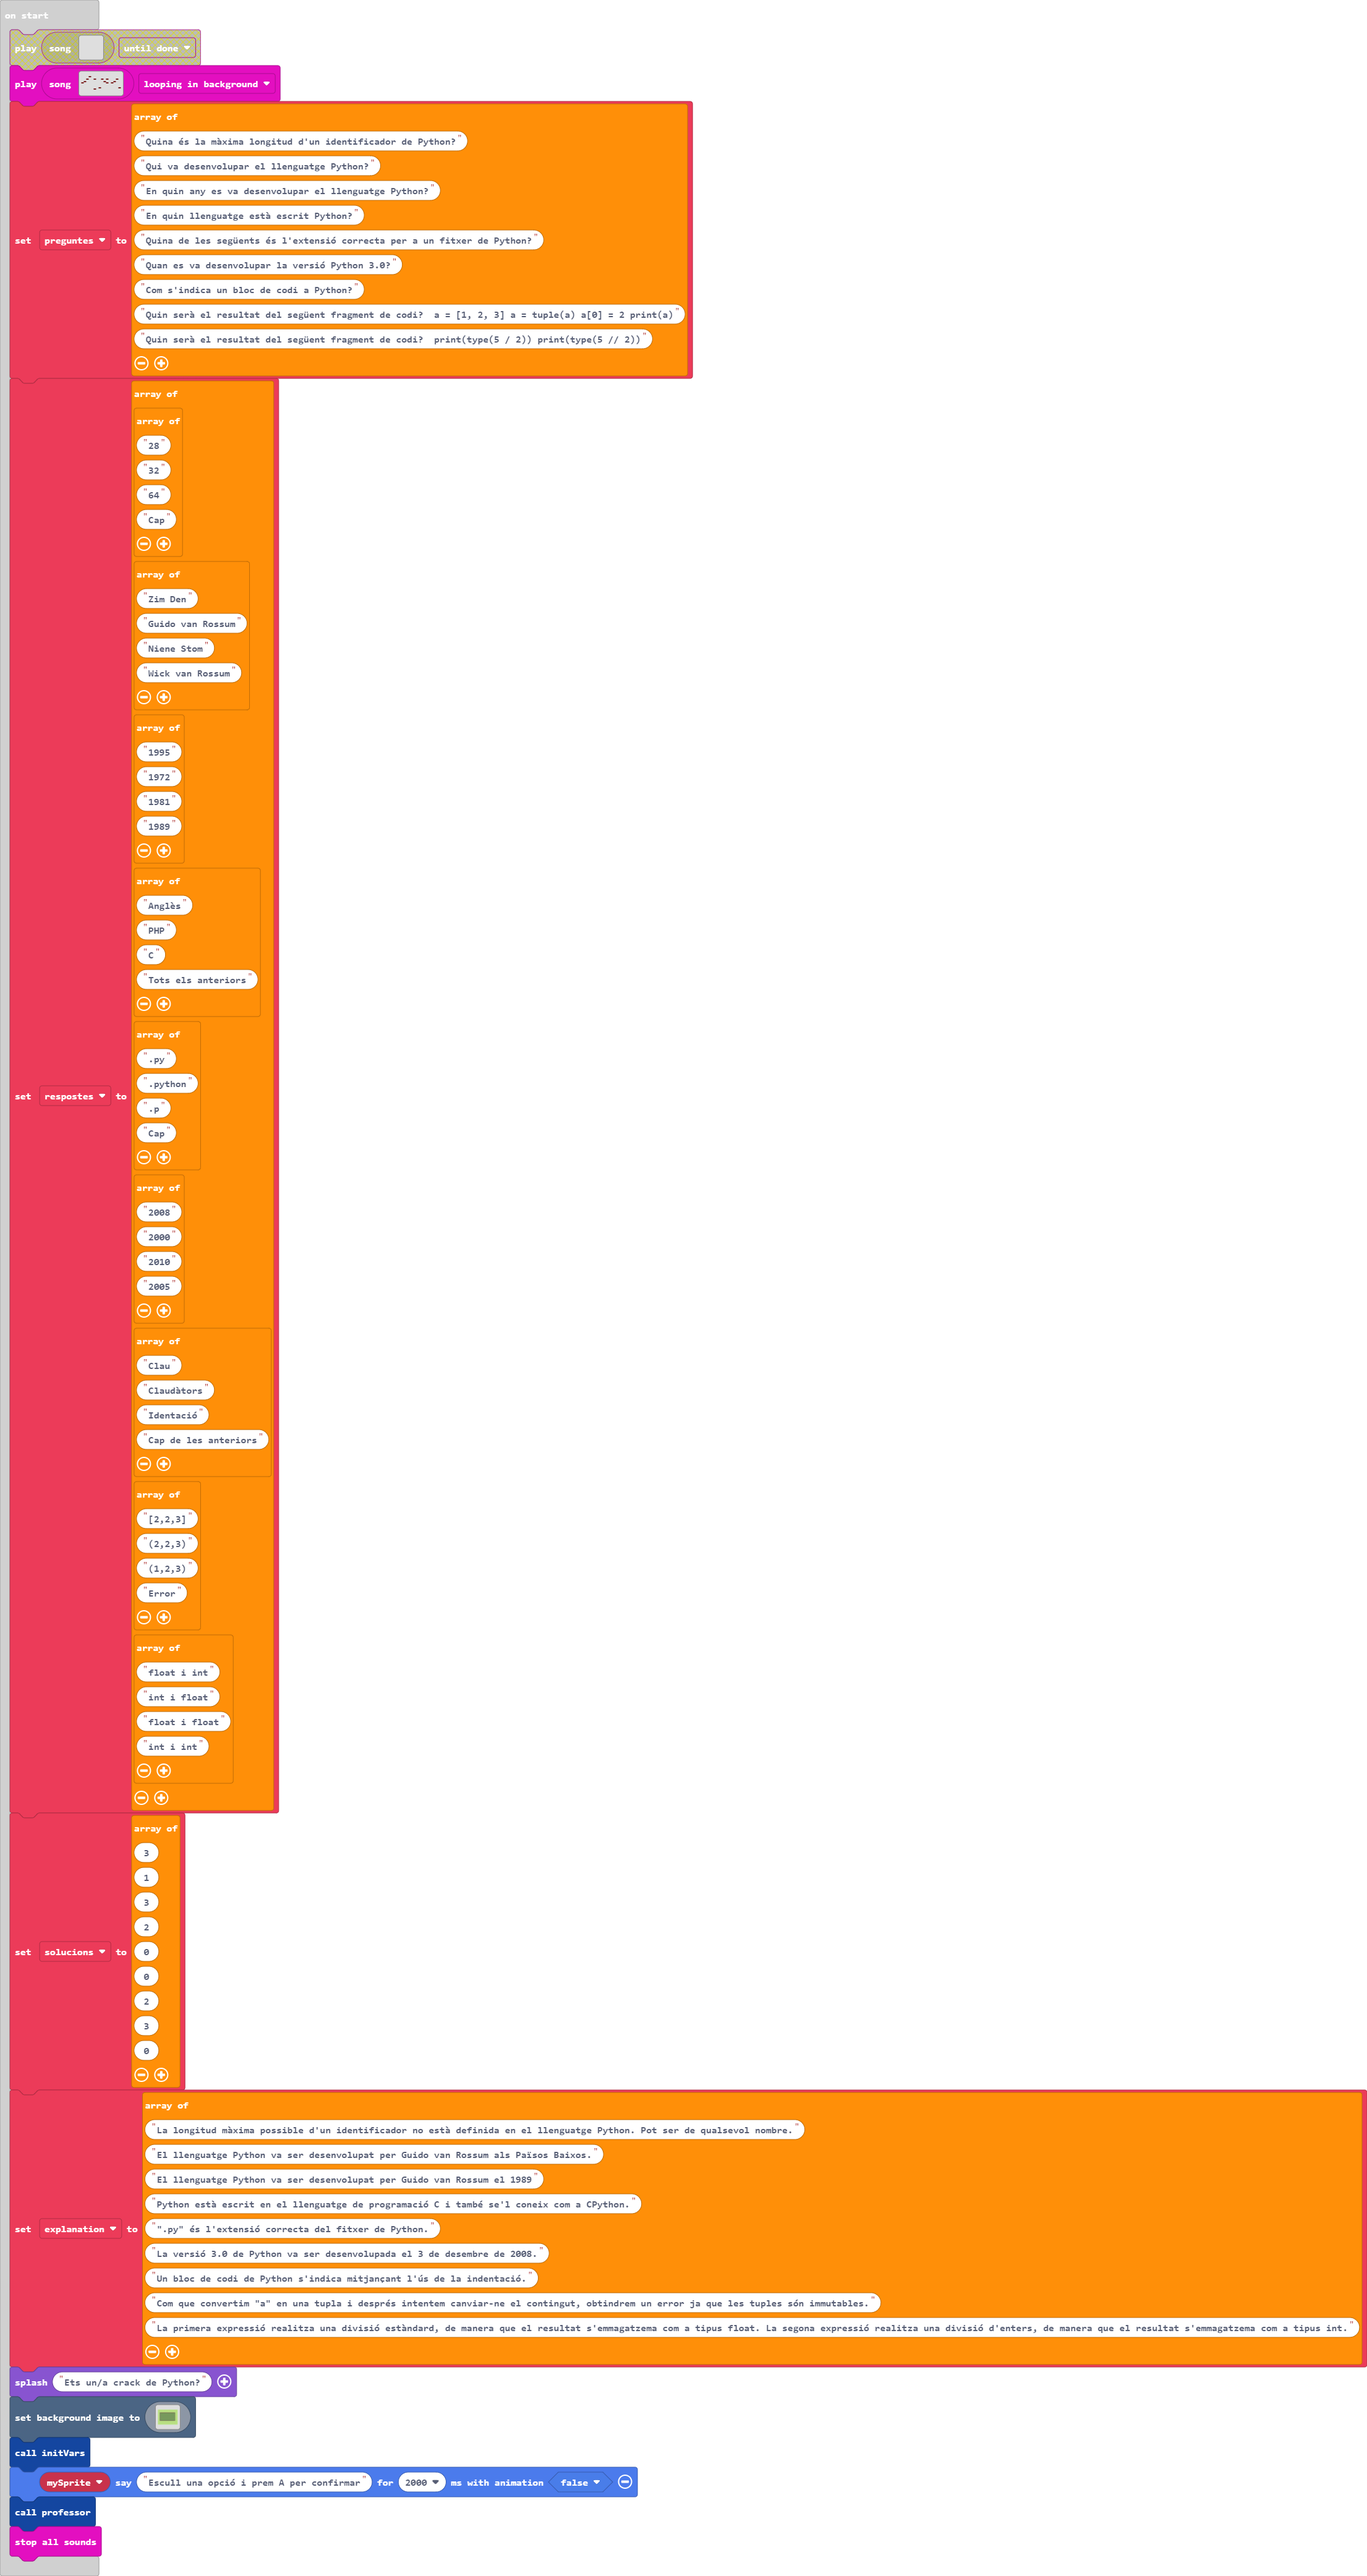
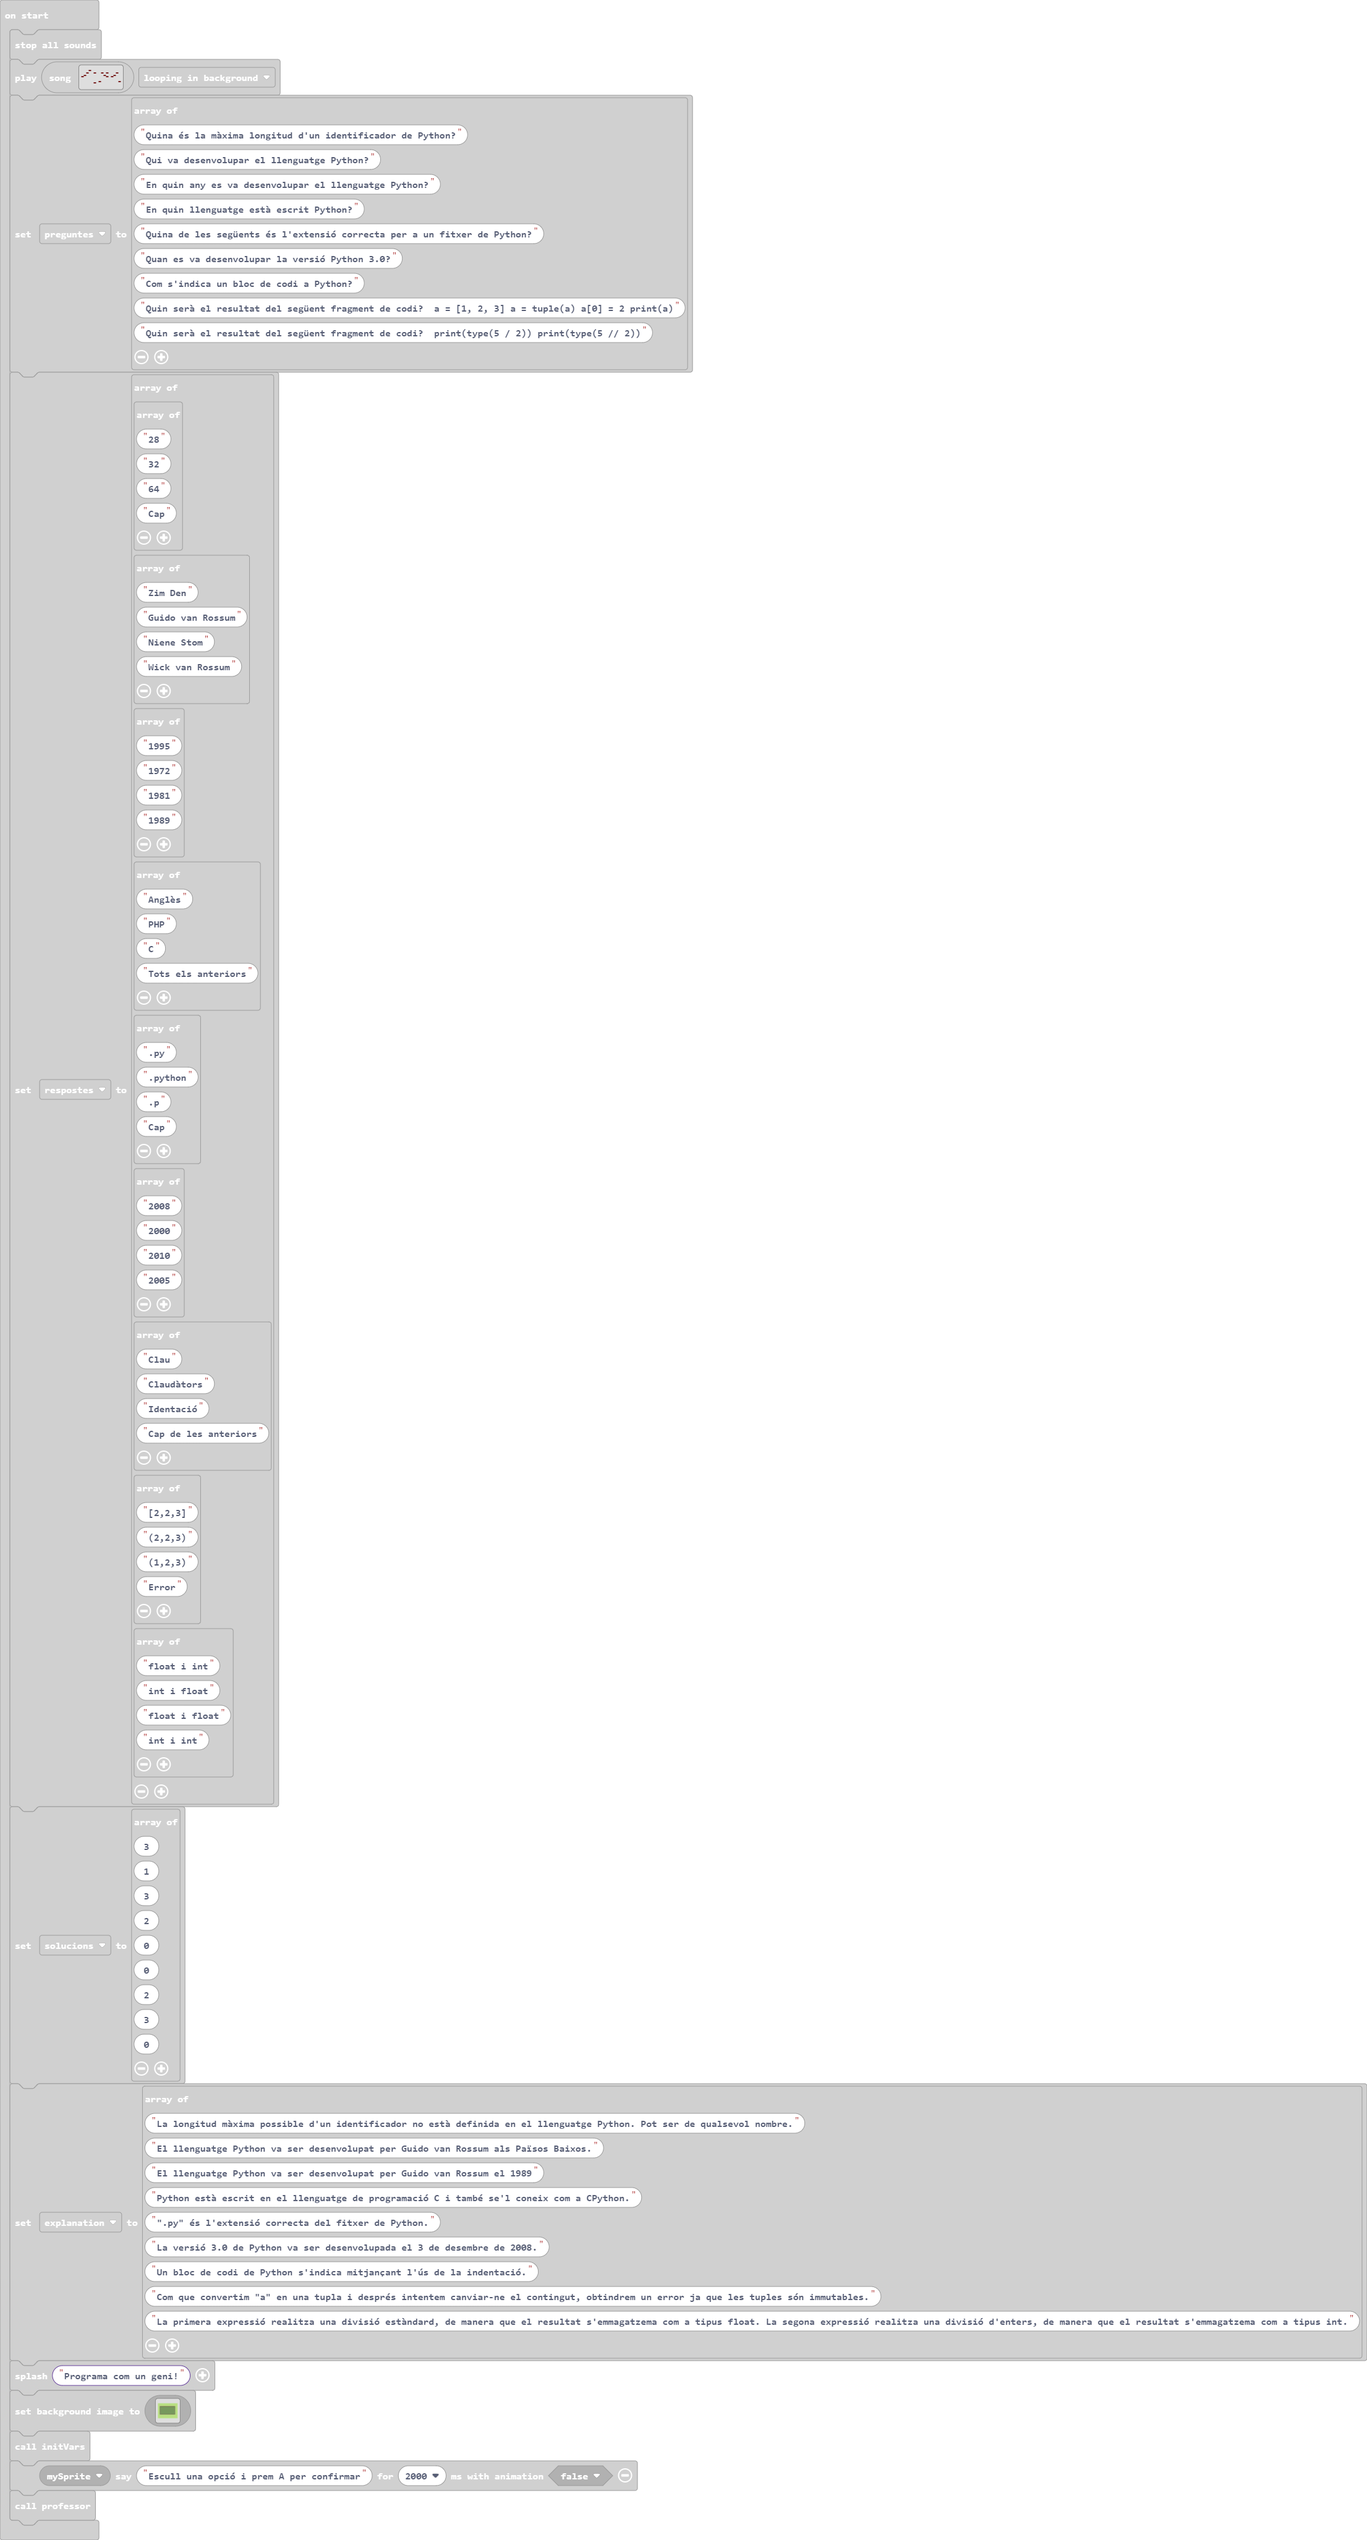
Update pxt.json, main.blocks, main.ts

Changed region(s): [[0.0, 0.0, 1.0, 0.9971]]

diff --git a/main.ts b/main.ts
@@ -304,7 +304,7 @@ explanation = [
 "Com que convertim \"a\" en una tupla i després intentem canviar-ne el contingut, obtindrem un error ja que les tuples són immutables.",
 "La primera expressió realitza una divisió estàndard, de manera que el resultat s'emmagatzema com a tipus float. La segona expressió realitza una divisió d'enters, de manera que el resultat s'emmagatzema com a tipus int."
 ]
-game.splash("Ets un/a crack de Python?")
+game.splash("Programa com un geni!")
 scene.setBackgroundImage(img`
     5555555555555555555555555555555555555555555555555355555555555555555555555555555555555555553335555555555555555555555555555555555555555555555555555555555555555555
     5555555555555555555555555555555555555555555555553555555555555555555555555555555555555555535553555555555555555555555555555555555555555555555555555555555555555555
